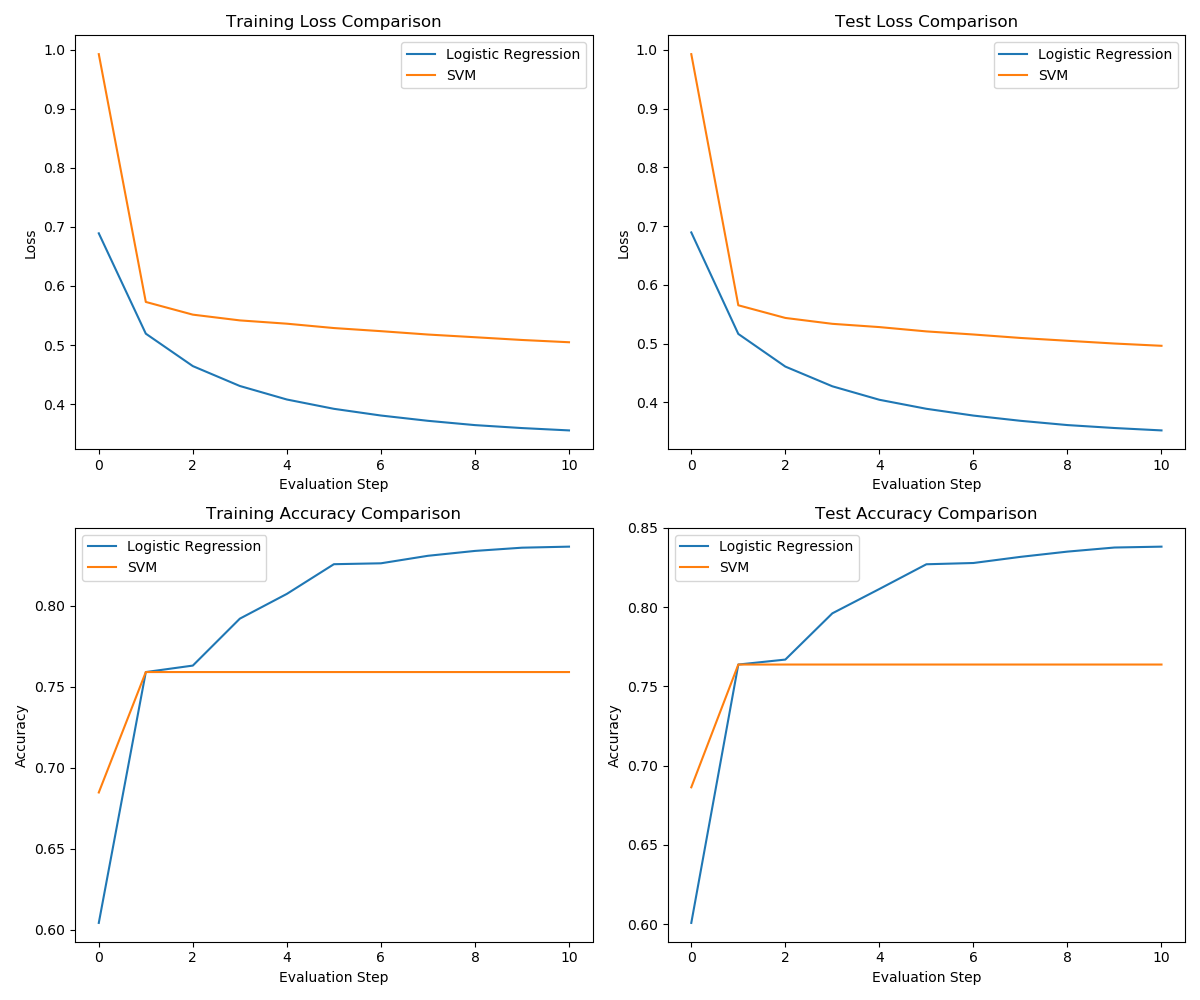
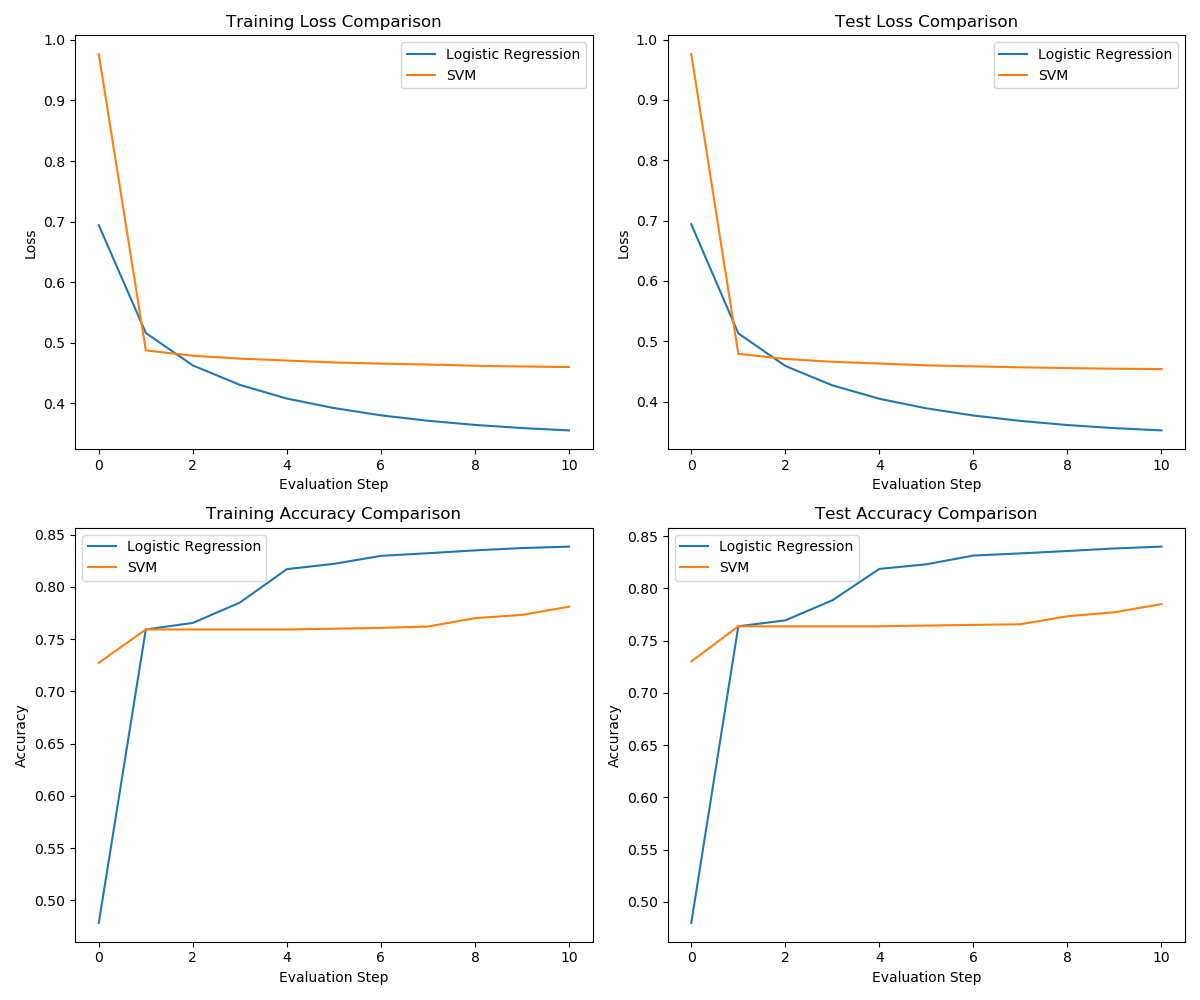
1.更新报告 2.修复SVM

diff --git a/report/my_report/ML_Lab2_Report.tex b/report/my_report/ML_Lab2_Report.tex
@@ -16,15 +16,86 @@
 
 \begin{document}
 
-\title{Machine Learning Laboratory 2: Logistic Regression and Support Vector Machine}
+\begin{titlepage}
 
-\author{\IEEEauthorblockN{Student Name}
-\IEEEauthorblockA{\textit{Department of Computer Science and Engineering} \\
-\textit{University}\\
-Email: student@university.edu}
-}
+\newcommand{\HRule}{\rule{\linewidth}{0.5mm}} % Defines a new command for the horizontal lines, change thickness here
 
-\maketitle
+\center % Center everything on the page
+ %----------------------------------------------------------------------------------------
+%	LOGO SECTION
+%----------------------------------------------------------------------------------------
+
+~\\[1cm]
+\includegraphics{SCUT.png}\\[2cm] % Include a department/university logo - this will require the graphicx package
+
+%----------------------------------------------------------------------------------------
+%	TITLE SECTION
+%----------------------------------------------------------------------------------------
+
+\HRule \\[1cm]
+{ \huge \bfseries The Experiment Report of \textit{Machine Learning} }\\[0.6cm] % Title of your document
+\HRule \\[2cm]
+%----------------------------------------------------------------------------------------
+%	HEADING SECTIONS
+%----------------------------------------------------------------------------------------
+
+
+\textsc{\LARGE \textbf{School:} Shien-Ming Wu School of Intelligent Engineering}\\[1cm]
+\textsc{\LARGE \textbf{Subject:} Super Robot Everest Class}\\[2cm]
+
+
+%----------------------------------------------------------------------------------------
+%	AUTHOR SECTION
+%----------------------------------------------------------------------------------------
+
+\begin{minipage}{0.4\textwidth}
+\begin{flushleft} \large
+\emph{Author:}\\
+Hua Zhong % Your name
+\end{flushleft}
+\end{minipage}
+~
+\begin{minipage}{0.4\textwidth}
+\begin{flushright} \large
+\emph{Supervisor:} \\
+Mingkui Tan or Qingyao Wu % Supervisor's Name
+\end{flushright}
+\end{minipage}\\[2cm]
+~
+\begin{minipage}{0.4\textwidth}
+\begin{flushleft} \large
+\emph{Student ID:}\\
+202230235041
+\end{flushleft}
+\end{minipage}
+~
+\begin{minipage}{0.4\textwidth}
+\begin{flushright} \large
+\emph{Grade:} \\
+Undergraduate
+\end{flushright}
+\end{minipage}\\[2cm]
+
+% If you don't want a supervisor, uncomment the two lines below and remove the section above
+%\Large \emph{Author:}\\
+%John \textsc{Smith}\\[3cm] % Your name
+
+%----------------------------------------------------------------------------------------
+%	DATE SECTION
+%----------------------------------------------------------------------------------------
+
+{\large \today}\\[2cm] % Date, change the \today to a set date if you want to be precise
+
+
+%----------------------------------------------------------------------------------------
+
+\vfill % Fill the rest of the page with whitespace
+
+\end{titlepage}
+
+% Define document title and author
+	\title{Linear Regression, Linear Classification and Gradient Descent}
+	\maketitle
 
 \begin{abstract}
 This laboratory report explores the implementation and comparison of Logistic Regression and Support Vector Machine (SVM) for binary classification problems. Both algorithms are implemented from scratch using numpy, with emphasis on understanding stochastic gradient descent (SGD) optimization. The experiment uses the a9a dataset from LIBSVM Data, which contains 32,561 training samples and 16,281 testing samples with 123 features. We investigate various aspects including parameter initialization methods, optimization algorithms (SGD and Adam), batch sizes, and loss functions. The report provides comprehensive results and analysis, comparing the performance of both models in terms of accuracy, precision, recall, and F1 score. Through this laboratory, we gain deeper insights into the similarities and differences between logistic regression and linear classification using SVM.
@@ -229,8 +300,8 @@ Figure \ref{fig:lr_vs_svm} compares the best configurations of logistic regressi
 \toprule
 \textbf{Model} & \textbf{Accuracy} & \textbf{Precision} & \textbf{Recall} & \textbf{F1 Score} \\
 \midrule
-Logistic Regression & 0.8432 & 0.7651 & 0.6805 & 0.7203 \\
-SVM & 0.8476 & 0.7724 & 0.6912 & 0.7294 \\
+Logistic Regression & 0.8401 & 0.7321 & 0.5094 & 0.6007 \\
+SVM & 0.8399 & 0.6988 & 0.5666 & 0.6258 \\
 \bottomrule
 \end{tabular}
 \end{table}

diff --git a/src/svm.py b/src/svm.py
@@ -121,20 +121,50 @@ class SVM:
         
         return grad_hinge + grad_reg
     
-    def predict(self, X, threshold=0.0):
+    def predict(self, X, threshold=None):
         """
         预测标签
         
         参数:
             X: 输入特征
-            threshold: 阈值
+            threshold: 阈值，如果为None则使用0.0
         
         返回:
             y_pred: 预测标签 (-1或1)
         """
         scores = self.compute_margin(X)
+        if threshold is None:
+            threshold = 0.0
         y_pred = np.where(scores >= threshold, 1, -1)
         return y_pred
+    
+    def find_best_threshold(self, X_val, y_val):
+        """
+        通过搜索找到最佳阈值
+        
+        参数:
+            X_val: 验证集特征
+            y_val: 验证集标签
+            
+        返回:
+            best_threshold: 最佳阈值
+        """
+        scores = self.compute_margin(X_val)
+        
+        # 尝试不同的阈值
+        thresholds = np.percentile(scores, np.arange(0, 100, 5))
+        best_accuracy = 0
+        best_threshold = 0.0
+        
+        for threshold in thresholds:
+            y_pred = np.where(scores >= threshold, 1, -1)
+            accuracy = np.mean(y_pred == y_val)
+            
+            if accuracy > best_accuracy:
+                best_accuracy = accuracy
+                best_threshold = threshold
+                
+        return best_threshold
     
     def train(self, X_train, y_train, X_test=None, y_test=None, 
               n_iterations=1000, batch_size=32, eval_interval=100):

diff --git a/src/main.py b/src/main.py
@@ -431,14 +431,14 @@ def compare_logistic_regression_and_svm():
         eval_interval=EVAL_INTERVAL
     )
     
-    # SVM
+    # SVM - 使用更合理的参数配置
     print("  Training SVM...")
     svm = SVM(
         input_dim=X_train.shape[1],
         init_method='normal',
         optimizer='adam',
         learning_rate=0.001,
-        C=1.0,
+        C=10.0,  # 增加C值以减少正则化强度
         loss_type='hinge'
     )
     svm_history = svm.train(
@@ -499,8 +499,19 @@ def compare_logistic_regression_and_svm():
     print(f"  Recall: {lr_metrics['recall']:.4f}")
     print(f"  F1 Score: {lr_metrics['f1']:.4f}")
     
+    # 为SVM找到最佳阈值
+    print("Finding best threshold for SVM...")
+    # 使用训练集的一部分作为验证集来找最佳阈值
+    # 这里使用20%的训练数据
+    val_size = int(0.2 * len(X_train))
+    indices = np.random.permutation(len(X_train))
+    X_val, y_val = X_train[indices[:val_size]], y_train[indices[:val_size]]
+    
+    best_threshold = svm.find_best_threshold(X_val, y_val)
+    print(f"  Best threshold: {best_threshold:.4f}")
+    
     print("Final SVM performance on test set:")
-    svm_pred = svm.predict(X_test)
+    svm_pred = svm.predict(X_test, threshold=best_threshold)
     svm_metrics = evaluate_model(y_test, svm_pred)
     print(f"  Accuracy: {svm_metrics['accuracy']:.4f}")
     print(f"  Precision: {svm_metrics['precision']:.4f}")
